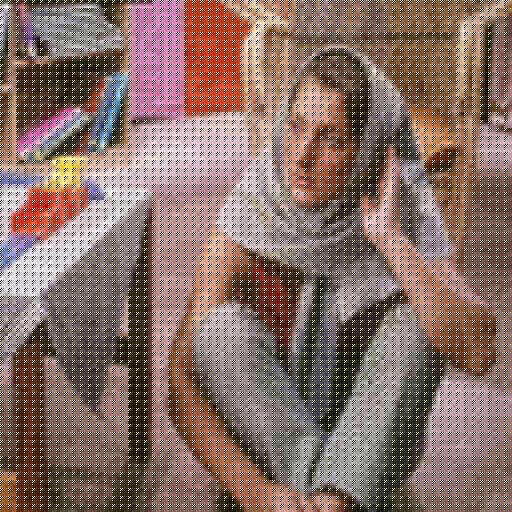
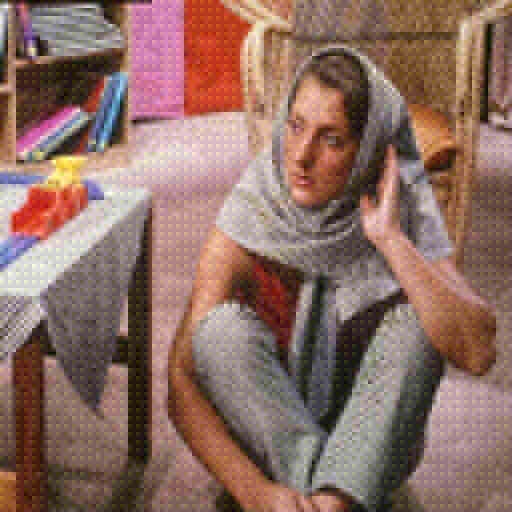
fix quantize

diff --git a/hw2/Q1/1.py b/hw2/Q1/1.py
@@ -107,7 +107,7 @@ def coeffRound(image, n):
     
     return image_rounded
 
-def uniformQuantize(image, m, t):
+def uniformQuantize(image, m, n, t):
     # define height and width for the image
     h, w = image.shape[:2]
 
@@ -152,11 +152,17 @@ def uniformQuantize(image, m, t):
     maxValue = np.amax(image_quantized)
     minValue = np.amin(image_quantized)
     quant_step = (maxValue - minValue) / (2 ** m - 1)
-    image_quantized = np.round((image_quantized - minValue) / quant_step)
+
+    # only left-up n*n
+    for iB in range(0, h, 8):
+        for jB in range(0, w, 8):
+            for i in range(n):
+                for j in range(n):
+                    image_quantized[iB + i, jB + j] = np.round((image_quantized[iB + i, jB + j] - minValue) / quant_step)
     
     return image_quantized, quant_step, minValue
 
-def unQuantize(image, quant_step, t, minValue):
+def unQuantize(image, n, quant_step, t, minValue):
     # define height and width for the image
     h, w = image.shape[:2]
 
@@ -190,7 +196,11 @@ def unQuantize(image, quant_step, t, minValue):
                                   [99, 99, 99, 99, 99, 99, 99, 99]])
 
     # unquantize "save with m bits"
-    image = image * quant_step + minValue
+    for iB in range(0, h, 8):
+        for jB in range(0, w, 8):
+            for i in range(n):
+                for j in range(n):
+                    image[iB + i, jB + j] = image[iB + i, jB + j] * quant_step + minValue
 
     # unquantize "quantize table"
     # initialize unquantized image
@@ -211,11 +221,11 @@ def DCTCompression(image, n, m, t):
     image_dct_rounded = coeffRound(image_dct, n)
 
     # apply uniform quantization with suitable quantization table and save each coefficient with m bits
-    image_dct_rounded_quantized, quant_step, minValue = uniformQuantize(image_dct_rounded, m, t)
+    image_dct_rounded_quantized, quant_step, minValue = uniformQuantize(image_dct_rounded, m, n, t)
 
     ###############################################
     # unquantize
-    image_dct = unQuantize(image_dct_rounded_quantized, quant_step, t, minValue)
+    image_dct = unQuantize(image_dct_rounded_quantized, n, quant_step, t, minValue)
 
     # inverse-DCT
     image = DCT2d(image_dct, inverse=True)
@@ -272,6 +282,7 @@ if __name__ == '__main__':
     barImageRGB = barImageBGR[:,:,::-1]
 
     d = {'cat': catImageRGB, 'bar': barImageRGB}
+
     ### A part ###
     for file in d.keys():
         for n in [2, 4]:

diff --git a/hw2/Q2/2.py b/hw2/Q2/2.py
@@ -87,10 +87,10 @@ def convolution(audio, filter):
 
 def subSample(signal, fs, newfs=2000):
     subRatio = fs // newfs
-
     newSignal = np.zeros(len(signal) // subRatio)
     for i in range(len(newSignal)):
         newSignal[i] = np.mean(signal[i*subRatio:(i+1)*subRatio])
+
     return newSignal
 
 def echo(signal, mode='one'):
